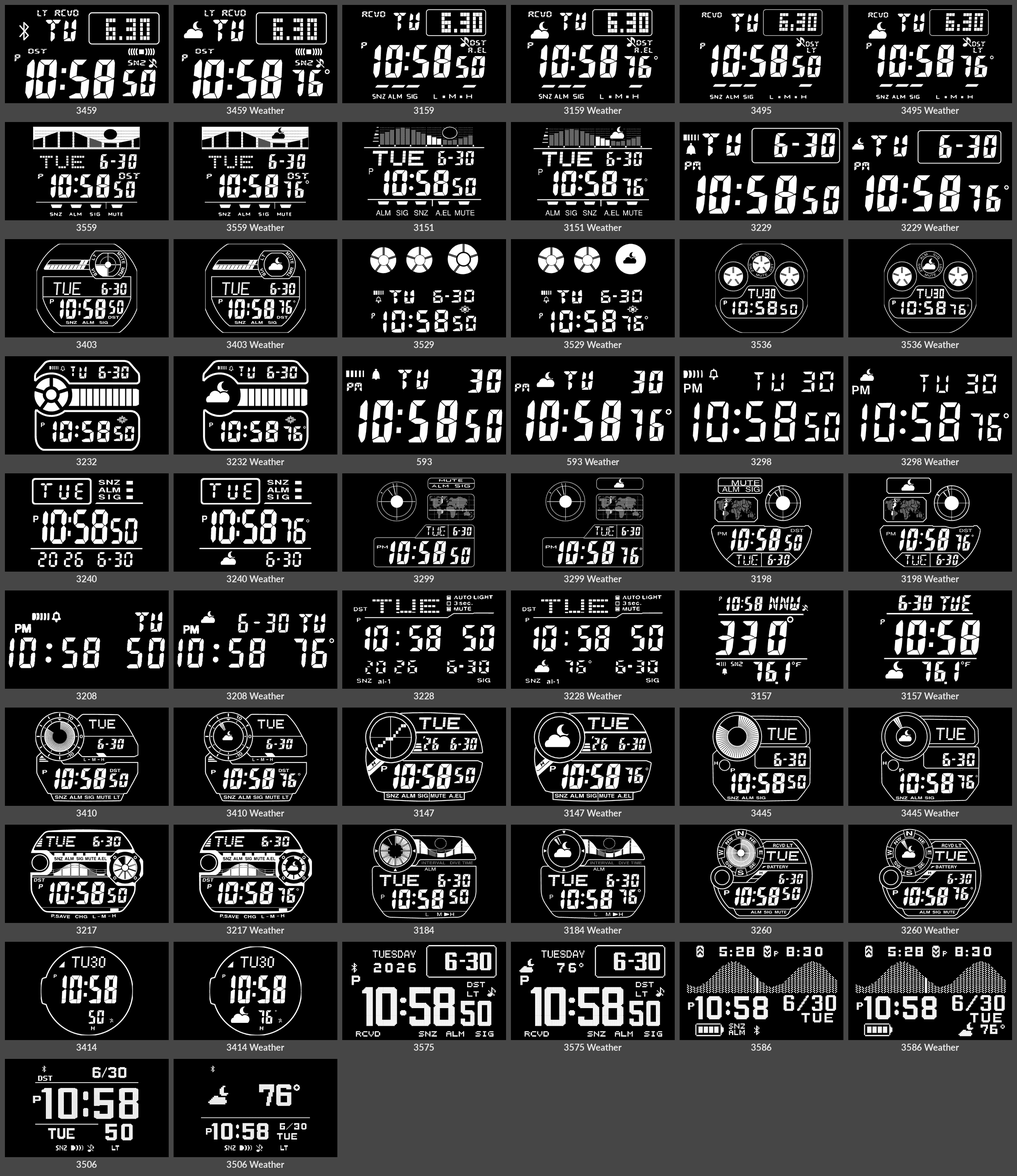
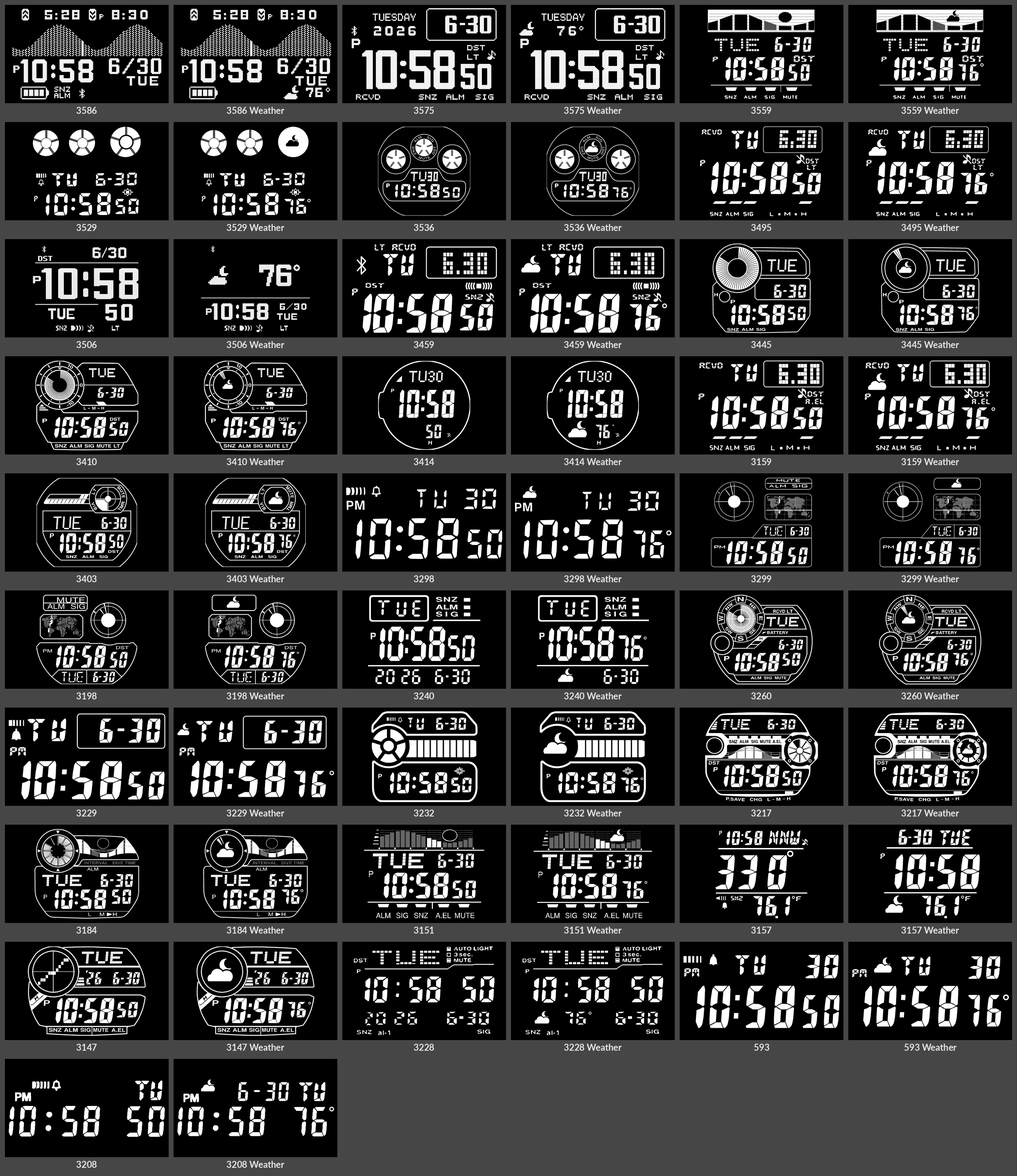
Watches by year, newest first
Claude-Session: https://claude.ai/code/session_01WrLPH9CSGwuJCbw1xzJHza

Changed region(s): [[0.0, 0.0, 0.9919, 0.9916]]

diff --git a/index.html b/index.html
@@ -38,7 +38,7 @@ no analog-digital ones. Switch Weather on to see each watch with the plugin's We
 the watch's own style.</p>
 <figure class="sheet" data-lcd="all-faces.png" data-inv="all-faces-inverted.png"><img class="all" src="all-faces.png" alt="Every LCD Watch face" width="2484" height="2872"></figure>
 <div class="switches"><div class="toggle" role="group" aria-label="Display"><button type="button" data-key="display" data-value="lcd">Light</button><button type="button" data-key="display" data-value="inv">Dark</button></div><div class="toggle" role="group" aria-label="Weather"><button type="button" data-key="weather" data-value="off">No weather</button><button type="button" data-key="weather" data-value="on">Weather</button></div></div>
-<div class="grid"><figure data-lcd="screens/watch-3459.png" data-inv="screens/watch-3459-inverted.png" data-label="3459 · Modern square (2018)" data-wlcd="screens/watch-3459-TRMNL.png" data-winv="screens/watch-3459-TRMNL-inverted.png" data-wlabel="3459 · Modern square (2018), Weather on"><img src="screens/watch-3459.png" alt="3459 · Modern square (2018)" loading="lazy" width="400" height="240"><figcaption><span class="label">3459 · Modern square (2018)</span></figcaption></figure><figure data-lcd="screens/watch-3159.png" data-inv="screens/watch-3159-inverted.png" data-label="3159 · Solar square (2012)" data-wlcd="screens/watch-3159-TRMNL.png" data-winv="screens/watch-3159-TRMNL-inverted.png" data-wlabel="3159 · Solar square (2012), Weather on"><img src="screens/watch-3159.png" alt="3159 · Solar square (2012)" loading="lazy" width="400" height="240"><figcaption><span class="label">3159 · Solar square (2012)</span></figcaption></figure><figure data-lcd="screens/watch-3495.png" data-inv="screens/watch-3495-inverted.png" data-label="3495 · Solar square, six languages (2021)" data-wlcd="screens/watch-3495-TRMNL.png" data-winv="screens/watch-3495-TRMNL-inverted.png" data-wlabel="3495 · Solar square, six languages (2021), Weather on"><img src="screens/watch-3495.png" alt="3495 · Solar square, six languages (2021)" loading="lazy" width="400" height="240"><figcaption><span class="label">3495 · Solar square, six languages (2021)</span></figcaption></figure><figure data-lcd="screens/watch-3559.png" data-inv="screens/watch-3559-inverted.png" data-label="3559 · Surf, tide and moon (2023)" data-wlcd="screens/watch-3559-TRMNL.png" data-winv="screens/watch-3559-TRMNL-inverted.png" data-wlabel="3559 · Surf, tide and moon (2023), Weather on"><img src="screens/watch-3559.png" alt="3559 · Surf, tide and moon (2023)" loading="lazy" width="400" height="240"><figcaption><span class="label">3559 · Surf, tide and moon (2023)</span></figcaption></figure><figure data-lcd="screens/watch-3151.png" data-inv="screens/watch-3151-inverted.png" data-label="3151 · Surf, tide graph and Moon (2008)" data-wlcd="screens/watch-3151-TRMNL.png" data-winv="screens/watch-3151-TRMNL-inverted.png" data-wlabel="3151 · Surf, tide graph and Moon (2008), Weather on"><img src="screens/watch-3151.png" alt="3151 · Surf, tide graph and Moon (2008)" loading="lazy" width="400" height="240"><figcaption><span class="label">3151 · Surf, tide graph and Moon (2008)</span></figcaption></figure><figure data-lcd="screens/watch-3229.png" data-inv="screens/watch-3229-inverted.png" data-label="3229 · Classic square (2010)" data-wlcd="screens/watch-3229-TRMNL.png" data-winv="screens/watch-3229-TRMNL-inverted.png" data-wlabel="3229 · Classic square (2010), Weather on"><img src="screens/watch-3229.png" alt="3229 · Classic square (2010)" loading="lazy" width="400" height="240"><figcaption><span class="label">3229 · Classic square (2010)</span></figcaption></figure><figure data-lcd="screens/watch-3403.png" data-inv="screens/watch-3403-inverted.png" data-label="3403 · XL square, bar graph and dial (2012)" data-wlcd="screens/watch-3403-TRMNL.png" data-winv="screens/watch-3403-TRMNL-inverted.png" data-wlabel="3403 · XL square, bar graph and dial (2012), Weather on"><img src="screens/watch-3403.png" alt="3403 · XL square, bar graph and dial (2012)" loading="lazy" width="400" height="240"><figcaption><span class="label">3403 · XL square, bar graph and dial (2012)</span></figcaption></figure><figure data-lcd="screens/watch-3529.png" data-inv="screens/watch-3529-inverted.png" data-label="3529 · Round, three eyes (2023)" data-wlcd="screens/watch-3529-TRMNL.png" data-winv="screens/watch-3529-TRMNL-inverted.png" data-wlabel="3529 · Round, three eyes (2023), Weather on"><img src="screens/watch-3529.png" alt="3529 · Round, three eyes (2023)" loading="lazy" width="400" height="240"><figcaption><span class="label">3529 · Round, three eyes (2023)</span></figcaption></figure><figure data-lcd="screens/watch-3536.png" data-inv="screens/watch-3536-inverted.png" data-label="3536 · Square, three eyes (2023)" data-wlcd="screens/watch-3536-TRMNL.png" data-winv="screens/watch-3536-TRMNL-inverted.png" data-wlabel="3536 · Square, three eyes (2023), Weather on"><img src="screens/watch-3536.png" alt="3536 · Square, three eyes (2023)" loading="lazy" width="400" height="240"><figcaption><span class="label">3536 · Square, three eyes (2023)</span></figcaption></figure><figure data-lcd="screens/watch-3232.png" data-inv="screens/watch-3232-inverted.png" data-label="3232 · Round, eye and bar graph (2010)" data-wlcd="screens/watch-3232-TRMNL.png" data-winv="screens/watch-3232-TRMNL-inverted.png" data-wlabel="3232 · Round, eye and bar graph (2010), Weather on"><img src="screens/watch-3232.png" alt="3232 · Round, eye and bar graph (2010)" loading="lazy" width="400" height="240"><figcaption><span class="label">3232 · Round, eye and bar graph (2010)</span></figcaption></figure><figure data-lcd="screens/watch-593.png" data-inv="screens/watch-593-inverted.png" data-label="593 · Slim retro (1989)" data-wlcd="screens/watch-593-TRMNL.png" data-winv="screens/watch-593-TRMNL-inverted.png" data-wlabel="593 · Slim retro (1989), Weather on"><img src="screens/watch-593.png" alt="593 · Slim retro (1989)" loading="lazy" width="400" height="240"><figcaption><span class="label">593 · Slim retro (1989)</span></figcaption></figure><figure data-lcd="screens/watch-3298.png" data-inv="screens/watch-3298-inverted.png" data-label="3298 · Retro steel square (2012)" data-wlcd="screens/watch-3298-TRMNL.png" data-winv="screens/watch-3298-TRMNL-inverted.png" data-wlabel="3298 · Retro steel square (2012), Weather on"><img src="screens/watch-3298.png" alt="3298 · Retro steel square (2012)" loading="lazy" width="400" height="240"><figcaption><span class="label">3298 · Retro steel square (2012)</span></figcaption></figure><figure data-lcd="screens/watch-3240.png" data-inv="screens/watch-3240-inverted.png" data-label="3240 · Sport square, 10-year battery (2011)" data-wlcd="screens/watch-3240-TRMNL.png" data-winv="screens/watch-3240-TRMNL-inverted.png" data-wlabel="3240 · Sport square, 10-year battery (2011), Weather on"><img src="screens/watch-3240.png" alt="3240 · Sport square, 10-year battery (2011)" loading="lazy" width="400" height="240"><figcaption><span class="label">3240 · Sport square, 10-year battery (2011)</span></figcaption></figure><figure data-lcd="screens/watch-3299.png" data-inv="screens/watch-3299-inverted.png" data-label="3299 · World time with map (2012)" data-wlcd="screens/watch-3299-TRMNL.png" data-winv="screens/watch-3299-TRMNL-inverted.png" data-wlabel="3299 · World time with map (2012), Weather on"><img src="screens/watch-3299.png" alt="3299 · World time with map (2012)" loading="lazy" width="400" height="240"><figcaption><span class="label">3299 · World time with map (2012)</span></figcaption></figure><figure data-lcd="screens/watch-3198.png" data-inv="screens/watch-3198-inverted.png" data-label="3198 · World time with map, round (2012)" data-wlcd="screens/watch-3198-TRMNL.png" data-winv="screens/watch-3198-TRMNL-inverted.png" data-wlabel="3198 · World time with map, round (2012), Weather on"><img src="screens/watch-3198.png" alt="3198 · World time with map, round (2012)" loading="lazy" width="400" height="240"><figcaption><span class="label">3198 · World time with map, round (2012)</span></figcaption></figure><figure data-lcd="screens/watch-3208.png" data-inv="screens/watch-3208-inverted.png" data-label="3208 · Calculator (1988)" data-wlcd="screens/watch-3208-TRMNL.png" data-winv="screens/watch-3208-TRMNL-inverted.png" data-wlabel="3208 · Calculator (1988), Weather on"><img src="screens/watch-3208.png" alt="3208 · Calculator (1988)" loading="lazy" width="400" height="240"><figcaption><span class="label">3208 · Calculator (1988)</span></figcaption></figure><figure data-lcd="screens/watch-3228.png" data-inv="screens/watch-3228-inverted.png" data-label="3228 · Databank calculator (2005)" data-wlcd="screens/watch-3228-TRMNL.png" data-winv="screens/watch-3228-TRMNL-inverted.png" data-wlabel="3228 · Databank calculator (2005), Weather on"><img src="screens/watch-3228.png" alt="3228 · Databank calculator (2005)" loading="lazy" width="400" height="240"><figcaption><span class="label">3228 · Databank calculator (2005)</span></figcaption></figure><figure data-lcd="screens/watch-3157.png" data-inv="screens/watch-3157-inverted.png" data-label="3157 · Outdoor, compass and thermometer (2008)" data-wlcd="screens/watch-3157-TRMNL.png" data-winv="screens/watch-3157-TRMNL-inverted.png" data-wlabel="3157 · Outdoor, compass and thermometer (2008), Weather on"><img src="screens/watch-3157.png" alt="3157 · Outdoor, compass and thermometer (2008)" loading="lazy" width="400" height="240"><figcaption><span class="label">3157 · Outdoor, compass and thermometer (2008)</span></figcaption></figure><figure data-lcd="screens/watch-3410.png" data-inv="screens/watch-3410-inverted.png" data-label="3410 · Triple sensor, graphic dial (2013)" data-wlcd="screens/watch-3410-TRMNL.png" data-winv="screens/watch-3410-TRMNL-inverted.png" data-wlabel="3410 · Triple sensor, graphic dial (2013), Weather on"><img src="screens/watch-3410.png" alt="3410 · Triple sensor, graphic dial (2013)" loading="lazy" width="400" height="240"><figcaption><span class="label">3410 · Triple sensor, graphic dial (2013)</span></figcaption></figure><figure data-lcd="screens/watch-3147.png" data-inv="screens/watch-3147-inverted.png" data-label="3147 · Barometer, pressure graph (2008)" data-wlcd="screens/watch-3147-TRMNL.png" data-winv="screens/watch-3147-TRMNL-inverted.png" data-wlabel="3147 · Barometer, pressure graph (2008), Weather on"><img src="screens/watch-3147.png" alt="3147 · Barometer, pressure graph (2008)" loading="lazy" width="400" height="240"><figcaption><span class="label">3147 · Barometer, pressure graph (2008)</span></figcaption></figure><figure data-lcd="screens/watch-3445.png" data-inv="screens/watch-3445-inverted.png" data-label="3445 · Diver, graphic dial and Moon (2016)" data-wlcd="screens/watch-3445-TRMNL.png" data-winv="screens/watch-3445-TRMNL-inverted.png" data-wlabel="3445 · Diver, graphic dial and Moon (2016), Weather on"><img src="screens/watch-3445.png" alt="3445 · Diver, graphic dial and Moon (2016)" loading="lazy" width="400" height="240"><figcaption><span class="label">3445 · Diver, graphic dial and Moon (2016)</span></figcaption></figure><figure data-lcd="screens/watch-3217.png" data-inv="screens/watch-3217-inverted.png" data-label="3217 · Surf, tide graph and Moon (2010)" data-wlcd="screens/watch-3217-TRMNL.png" data-winv="screens/watch-3217-TRMNL-inverted.png" data-wlabel="3217 · Surf, tide graph and Moon (2010), Weather on"><img src="screens/watch-3217.png" alt="3217 · Surf, tide graph and Moon (2010)" loading="lazy" width="400" height="240"><figcaption><span class="label">3217 · Surf, tide graph and Moon (2010)</span></figcaption></figure><figure data-lcd="screens/watch-3184.png" data-inv="screens/watch-3184-inverted.png" data-label="3184 · Diver, tide graph and Moon (2009)" data-wlcd="screens/watch-3184-TRMNL.png" data-winv="screens/watch-3184-TRMNL-inverted.png" data-wlabel="3184 · Diver, tide graph and Moon (2009), Weather on"><img src="screens/watch-3184.png" alt="3184 · Diver, tide graph and Moon (2009)" loading="lazy" width="400" height="240"><figcaption><span class="label">3184 · Diver, tide graph and Moon (2009)</span></figcaption></figure><figure data-lcd="screens/watch-3260.png" data-inv="screens/watch-3260-inverted.png" data-label="3260 · Mud-resistant square, compass bezel and Moon (2011)" data-wlcd="screens/watch-3260-TRMNL.png" data-winv="screens/watch-3260-TRMNL-inverted.png" data-wlabel="3260 · Mud-resistant square, compass bezel and Moon (2011), Weather on"><img src="screens/watch-3260.png" alt="3260 · Mud-resistant square, compass bezel and Moon (2011)" loading="lazy" width="400" height="240"><figcaption><span class="label">3260 · Mud-resistant square, compass bezel and Moon (2011)</span></figcaption></figure><figure data-lcd="screens/watch-3414.png" data-inv="screens/watch-3414-inverted.png" data-label="3414 · Triple sensor, round (2013)" data-wlcd="screens/watch-3414-TRMNL.png" data-winv="screens/watch-3414-TRMNL-inverted.png" data-wlabel="3414 · Triple sensor, round (2013), Weather on"><img src="screens/watch-3414.png" alt="3414 · Triple sensor, round (2013)" loading="lazy" width="400" height="240"><figcaption><span class="label">3414 · Triple sensor, round (2013)</span></figcaption></figure><figure data-lcd="screens/watch-3575.png" data-inv="screens/watch-3575-inverted.png" data-label="3575 / 3578 · Dot matrix (2025)" data-wlcd="screens/type-c-weather.png" data-winv="screens/type-c-weather-inverted.png" data-wlabel="3575 / 3578 · Dot matrix (2025), Weather on"><img src="screens/watch-3575.png" alt="3575 / 3578 · Dot matrix (2025)" loading="lazy" width="400" height="240"><figcaption><span class="label">3575 / 3578 · Dot matrix (2025)</span></figcaption></figure><figure data-lcd="screens/watch-3586.png" data-inv="screens/watch-3586-inverted.png" data-label="3586 · Dot matrix, tide and sun (2026)" data-wlcd="screens/watch-3586-TRMNL.png" data-winv="screens/watch-3586-TRMNL-inverted.png" data-wlabel="3586 · Dot matrix, tide and sun (2026), Weather on"><img src="screens/watch-3586.png" alt="3586 · Dot matrix, tide and sun (2026)" loading="lazy" width="400" height="240"><figcaption><span class="label">3586 · Dot matrix, tide and sun (2026)</span></figcaption></figure><figure data-lcd="screens/watch-3506.png" data-inv="screens/watch-3506-inverted.png" data-label="3506 · Dot matrix, sport square (2021)" data-wlcd="screens/watch-3506-TRMNL.png" data-winv="screens/watch-3506-TRMNL-inverted.png" data-wlabel="3506 · Dot matrix, sport square (2021), Weather on"><img src="screens/watch-3506.png" alt="3506 · Dot matrix, sport square (2021)" loading="lazy" width="400" height="240"><figcaption><span class="label">3506 · Dot matrix, sport square (2021)</span></figcaption></figure></div>
+<div class="grid"><figure data-lcd="screens/watch-3586.png" data-inv="screens/watch-3586-inverted.png" data-label="3586 · Dot matrix, tide and sun (2026)" data-wlcd="screens/watch-3586-TRMNL.png" data-winv="screens/watch-3586-TRMNL-inverted.png" data-wlabel="3586 · Dot matrix, tide and sun (2026), Weather on"><img src="screens/watch-3586.png" alt="3586 · Dot matrix, tide and sun (2026)" loading="lazy" width="400" height="240"><figcaption><span class="label">3586 · Dot matrix, tide and sun (2026)</span></figcaption></figure><figure data-lcd="screens/watch-3575.png" data-inv="screens/watch-3575-inverted.png" data-label="3575 / 3578 · Dot matrix (2025)" data-wlcd="screens/type-c-weather.png" data-winv="screens/type-c-weather-inverted.png" data-wlabel="3575 / 3578 · Dot matrix (2025), Weather on"><img src="screens/watch-3575.png" alt="3575 / 3578 · Dot matrix (2025)" loading="lazy" width="400" height="240"><figcaption><span class="label">3575 / 3578 · Dot matrix (2025)</span></figcaption></figure><figure data-lcd="screens/watch-3559.png" data-inv="screens/watch-3559-inverted.png" data-label="3559 · Surf, tide and moon (2023)" data-wlcd="screens/watch-3559-TRMNL.png" data-winv="screens/watch-3559-TRMNL-inverted.png" data-wlabel="3559 · Surf, tide and moon (2023), Weather on"><img src="screens/watch-3559.png" alt="3559 · Surf, tide and moon (2023)" loading="lazy" width="400" height="240"><figcaption><span class="label">3559 · Surf, tide and moon (2023)</span></figcaption></figure><figure data-lcd="screens/watch-3529.png" data-inv="screens/watch-3529-inverted.png" data-label="3529 · Round, three eyes (2023)" data-wlcd="screens/watch-3529-TRMNL.png" data-winv="screens/watch-3529-TRMNL-inverted.png" data-wlabel="3529 · Round, three eyes (2023), Weather on"><img src="screens/watch-3529.png" alt="3529 · Round, three eyes (2023)" loading="lazy" width="400" height="240"><figcaption><span class="label">3529 · Round, three eyes (2023)</span></figcaption></figure><figure data-lcd="screens/watch-3536.png" data-inv="screens/watch-3536-inverted.png" data-label="3536 · Square, three eyes (2023)" data-wlcd="screens/watch-3536-TRMNL.png" data-winv="screens/watch-3536-TRMNL-inverted.png" data-wlabel="3536 · Square, three eyes (2023), Weather on"><img src="screens/watch-3536.png" alt="3536 · Square, three eyes (2023)" loading="lazy" width="400" height="240"><figcaption><span class="label">3536 · Square, three eyes (2023)</span></figcaption></figure><figure data-lcd="screens/watch-3495.png" data-inv="screens/watch-3495-inverted.png" data-label="3495 · Solar square, six languages (2021)" data-wlcd="screens/watch-3495-TRMNL.png" data-winv="screens/watch-3495-TRMNL-inverted.png" data-wlabel="3495 · Solar square, six languages (2021), Weather on"><img src="screens/watch-3495.png" alt="3495 · Solar square, six languages (2021)" loading="lazy" width="400" height="240"><figcaption><span class="label">3495 · Solar square, six languages (2021)</span></figcaption></figure><figure data-lcd="screens/watch-3506.png" data-inv="screens/watch-3506-inverted.png" data-label="3506 · Dot matrix, sport square (2021)" data-wlcd="screens/watch-3506-TRMNL.png" data-winv="screens/watch-3506-TRMNL-inverted.png" data-wlabel="3506 · Dot matrix, sport square (2021), Weather on"><img src="screens/watch-3506.png" alt="3506 · Dot matrix, sport square (2021)" loading="lazy" width="400" height="240"><figcaption><span class="label">3506 · Dot matrix, sport square (2021)</span></figcaption></figure><figure data-lcd="screens/watch-3459.png" data-inv="screens/watch-3459-inverted.png" data-label="3459 · Modern square (2018)" data-wlcd="screens/watch-3459-TRMNL.png" data-winv="screens/watch-3459-TRMNL-inverted.png" data-wlabel="3459 · Modern square (2018), Weather on"><img src="screens/watch-3459.png" alt="3459 · Modern square (2018)" loading="lazy" width="400" height="240"><figcaption><span class="label">3459 · Modern square (2018)</span></figcaption></figure><figure data-lcd="screens/watch-3445.png" data-inv="screens/watch-3445-inverted.png" data-label="3445 · Diver, graphic dial and Moon (2016)" data-wlcd="screens/watch-3445-TRMNL.png" data-winv="screens/watch-3445-TRMNL-inverted.png" data-wlabel="3445 · Diver, graphic dial and Moon (2016), Weather on"><img src="screens/watch-3445.png" alt="3445 · Diver, graphic dial and Moon (2016)" loading="lazy" width="400" height="240"><figcaption><span class="label">3445 · Diver, graphic dial and Moon (2016)</span></figcaption></figure><figure data-lcd="screens/watch-3410.png" data-inv="screens/watch-3410-inverted.png" data-label="3410 · Triple sensor, graphic dial (2013)" data-wlcd="screens/watch-3410-TRMNL.png" data-winv="screens/watch-3410-TRMNL-inverted.png" data-wlabel="3410 · Triple sensor, graphic dial (2013), Weather on"><img src="screens/watch-3410.png" alt="3410 · Triple sensor, graphic dial (2013)" loading="lazy" width="400" height="240"><figcaption><span class="label">3410 · Triple sensor, graphic dial (2013)</span></figcaption></figure><figure data-lcd="screens/watch-3414.png" data-inv="screens/watch-3414-inverted.png" data-label="3414 · Triple sensor, round (2013)" data-wlcd="screens/watch-3414-TRMNL.png" data-winv="screens/watch-3414-TRMNL-inverted.png" data-wlabel="3414 · Triple sensor, round (2013), Weather on"><img src="screens/watch-3414.png" alt="3414 · Triple sensor, round (2013)" loading="lazy" width="400" height="240"><figcaption><span class="label">3414 · Triple sensor, round (2013)</span></figcaption></figure><figure data-lcd="screens/watch-3159.png" data-inv="screens/watch-3159-inverted.png" data-label="3159 · Solar square (2012)" data-wlcd="screens/watch-3159-TRMNL.png" data-winv="screens/watch-3159-TRMNL-inverted.png" data-wlabel="3159 · Solar square (2012), Weather on"><img src="screens/watch-3159.png" alt="3159 · Solar square (2012)" loading="lazy" width="400" height="240"><figcaption><span class="label">3159 · Solar square (2012)</span></figcaption></figure><figure data-lcd="screens/watch-3403.png" data-inv="screens/watch-3403-inverted.png" data-label="3403 · XL square, bar graph and dial (2012)" data-wlcd="screens/watch-3403-TRMNL.png" data-winv="screens/watch-3403-TRMNL-inverted.png" data-wlabel="3403 · XL square, bar graph and dial (2012), Weather on"><img src="screens/watch-3403.png" alt="3403 · XL square, bar graph and dial (2012)" loading="lazy" width="400" height="240"><figcaption><span class="label">3403 · XL square, bar graph and dial (2012)</span></figcaption></figure><figure data-lcd="screens/watch-3298.png" data-inv="screens/watch-3298-inverted.png" data-label="3298 · Retro steel square (2012)" data-wlcd="screens/watch-3298-TRMNL.png" data-winv="screens/watch-3298-TRMNL-inverted.png" data-wlabel="3298 · Retro steel square (2012), Weather on"><img src="screens/watch-3298.png" alt="3298 · Retro steel square (2012)" loading="lazy" width="400" height="240"><figcaption><span class="label">3298 · Retro steel square (2012)</span></figcaption></figure><figure data-lcd="screens/watch-3299.png" data-inv="screens/watch-3299-inverted.png" data-label="3299 · World time with map (2012)" data-wlcd="screens/watch-3299-TRMNL.png" data-winv="screens/watch-3299-TRMNL-inverted.png" data-wlabel="3299 · World time with map (2012), Weather on"><img src="screens/watch-3299.png" alt="3299 · World time with map (2012)" loading="lazy" width="400" height="240"><figcaption><span class="label">3299 · World time with map (2012)</span></figcaption></figure><figure data-lcd="screens/watch-3198.png" data-inv="screens/watch-3198-inverted.png" data-label="3198 · World time with map, round (2012)" data-wlcd="screens/watch-3198-TRMNL.png" data-winv="screens/watch-3198-TRMNL-inverted.png" data-wlabel="3198 · World time with map, round (2012), Weather on"><img src="screens/watch-3198.png" alt="3198 · World time with map, round (2012)" loading="lazy" width="400" height="240"><figcaption><span class="label">3198 · World time with map, round (2012)</span></figcaption></figure><figure data-lcd="screens/watch-3240.png" data-inv="screens/watch-3240-inverted.png" data-label="3240 · Sport square, 10-year battery (2011)" data-wlcd="screens/watch-3240-TRMNL.png" data-winv="screens/watch-3240-TRMNL-inverted.png" data-wlabel="3240 · Sport square, 10-year battery (2011), Weather on"><img src="screens/watch-3240.png" alt="3240 · Sport square, 10-year battery (2011)" loading="lazy" width="400" height="240"><figcaption><span class="label">3240 · Sport square, 10-year battery (2011)</span></figcaption></figure><figure data-lcd="screens/watch-3260.png" data-inv="screens/watch-3260-inverted.png" data-label="3260 · Mud-resistant square, compass bezel and Moon (2011)" data-wlcd="screens/watch-3260-TRMNL.png" data-winv="screens/watch-3260-TRMNL-inverted.png" data-wlabel="3260 · Mud-resistant square, compass bezel and Moon (2011), Weather on"><img src="screens/watch-3260.png" alt="3260 · Mud-resistant square, compass bezel and Moon (2011)" loading="lazy" width="400" height="240"><figcaption><span class="label">3260 · Mud-resistant square, compass bezel and Moon (2011)</span></figcaption></figure><figure data-lcd="screens/watch-3229.png" data-inv="screens/watch-3229-inverted.png" data-label="3229 · Classic square (2010)" data-wlcd="screens/watch-3229-TRMNL.png" data-winv="screens/watch-3229-TRMNL-inverted.png" data-wlabel="3229 · Classic square (2010), Weather on"><img src="screens/watch-3229.png" alt="3229 · Classic square (2010)" loading="lazy" width="400" height="240"><figcaption><span class="label">3229 · Classic square (2010)</span></figcaption></figure><figure data-lcd="screens/watch-3232.png" data-inv="screens/watch-3232-inverted.png" data-label="3232 · Round, eye and bar graph (2010)" data-wlcd="screens/watch-3232-TRMNL.png" data-winv="screens/watch-3232-TRMNL-inverted.png" data-wlabel="3232 · Round, eye and bar graph (2010), Weather on"><img src="screens/watch-3232.png" alt="3232 · Round, eye and bar graph (2010)" loading="lazy" width="400" height="240"><figcaption><span class="label">3232 · Round, eye and bar graph (2010)</span></figcaption></figure><figure data-lcd="screens/watch-3217.png" data-inv="screens/watch-3217-inverted.png" data-label="3217 · Surf, tide graph and Moon (2010)" data-wlcd="screens/watch-3217-TRMNL.png" data-winv="screens/watch-3217-TRMNL-inverted.png" data-wlabel="3217 · Surf, tide graph and Moon (2010), Weather on"><img src="screens/watch-3217.png" alt="3217 · Surf, tide graph and Moon (2010)" loading="lazy" width="400" height="240"><figcaption><span class="label">3217 · Surf, tide graph and Moon (2010)</span></figcaption></figure><figure data-lcd="screens/watch-3184.png" data-inv="screens/watch-3184-inverted.png" data-label="3184 · Diver, tide graph and Moon (2009)" data-wlcd="screens/watch-3184-TRMNL.png" data-winv="screens/watch-3184-TRMNL-inverted.png" data-wlabel="3184 · Diver, tide graph and Moon (2009), Weather on"><img src="screens/watch-3184.png" alt="3184 · Diver, tide graph and Moon (2009)" loading="lazy" width="400" height="240"><figcaption><span class="label">3184 · Diver, tide graph and Moon (2009)</span></figcaption></figure><figure data-lcd="screens/watch-3151.png" data-inv="screens/watch-3151-inverted.png" data-label="3151 · Surf, tide graph and Moon (2008)" data-wlcd="screens/watch-3151-TRMNL.png" data-winv="screens/watch-3151-TRMNL-inverted.png" data-wlabel="3151 · Surf, tide graph and Moon (2008), Weather on"><img src="screens/watch-3151.png" alt="3151 · Surf, tide graph and Moon (2008)" loading="lazy" width="400" height="240"><figcaption><span class="label">3151 · Surf, tide graph and Moon (2008)</span></figcaption></figure><figure data-lcd="screens/watch-3157.png" data-inv="screens/watch-3157-inverted.png" data-label="3157 · Outdoor, compass and thermometer (2008)" data-wlcd="screens/watch-3157-TRMNL.png" data-winv="screens/watch-3157-TRMNL-inverted.png" data-wlabel="3157 · Outdoor, compass and thermometer (2008), Weather on"><img src="screens/watch-3157.png" alt="3157 · Outdoor, compass and thermometer (2008)" loading="lazy" width="400" height="240"><figcaption><span class="label">3157 · Outdoor, compass and thermometer (2008)</span></figcaption></figure><figure data-lcd="screens/watch-3147.png" data-inv="screens/watch-3147-inverted.png" data-label="3147 · Barometer, pressure graph (2008)" data-wlcd="screens/watch-3147-TRMNL.png" data-winv="screens/watch-3147-TRMNL-inverted.png" data-wlabel="3147 · Barometer, pressure graph (2008), Weather on"><img src="screens/watch-3147.png" alt="3147 · Barometer, pressure graph (2008)" loading="lazy" width="400" height="240"><figcaption><span class="label">3147 · Barometer, pressure graph (2008)</span></figcaption></figure><figure data-lcd="screens/watch-3228.png" data-inv="screens/watch-3228-inverted.png" data-label="3228 · Databank calculator (2005)" data-wlcd="screens/watch-3228-TRMNL.png" data-winv="screens/watch-3228-TRMNL-inverted.png" data-wlabel="3228 · Databank calculator (2005), Weather on"><img src="screens/watch-3228.png" alt="3228 · Databank calculator (2005)" loading="lazy" width="400" height="240"><figcaption><span class="label">3228 · Databank calculator (2005)</span></figcaption></figure><figure data-lcd="screens/watch-593.png" data-inv="screens/watch-593-inverted.png" data-label="593 · Slim retro (1989)" data-wlcd="screens/watch-593-TRMNL.png" data-winv="screens/watch-593-TRMNL-inverted.png" data-wlabel="593 · Slim retro (1989), Weather on"><img src="screens/watch-593.png" alt="593 · Slim retro (1989)" loading="lazy" width="400" height="240"><figcaption><span class="label">593 · Slim retro (1989)</span></figcaption></figure><figure data-lcd="screens/watch-3208.png" data-inv="screens/watch-3208-inverted.png" data-label="3208 · Calculator (1988)" data-wlcd="screens/watch-3208-TRMNL.png" data-winv="screens/watch-3208-TRMNL-inverted.png" data-wlabel="3208 · Calculator (1988), Weather on"><img src="screens/watch-3208.png" alt="3208 · Calculator (1988)" loading="lazy" width="400" height="240"><figcaption><span class="label">3208 · Calculator (1988)</span></figcaption></figure></div>
 <h2>Display</h2>
 <p>How the screen is drawn, on any face.</p>
 <div class="grid"><figure data-lcd="screens/display-paper.png" data-inv="screens/display-paper.png" data-label="Light" data-wlcd="screens/display-paper-weather.png" data-winv="screens/display-paper-weather.png" data-wlabel="Light, with weather"><img src="screens/display-paper.png" alt="Light" loading="lazy" width="400" height="240"><figcaption><span class="label">Light</span></figcaption></figure><figure data-lcd="screens/display-inverted_white.png" data-inv="screens/display-inverted_white.png" data-label="Dark" data-wlcd="screens/display-inverted_white-weather.png" data-winv="screens/display-inverted_white-weather.png" data-wlabel="Dark, with weather"><img src="screens/display-inverted_white.png" alt="Dark" loading="lazy" width="400" height="240"><figcaption><span class="label">Dark</span></figcaption></figure></div>
